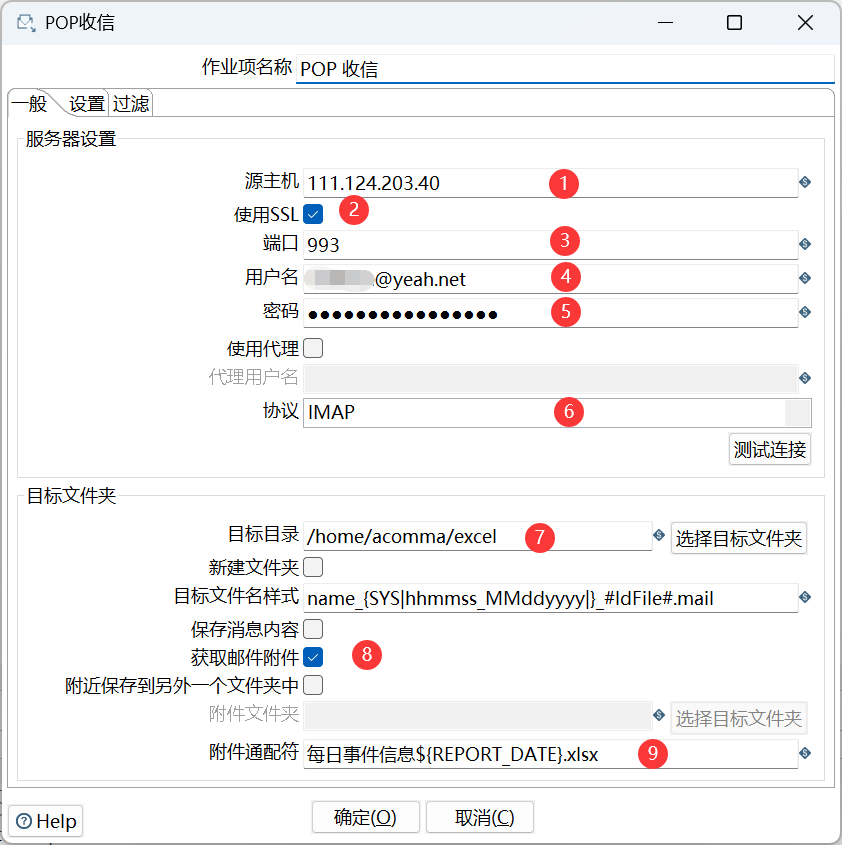
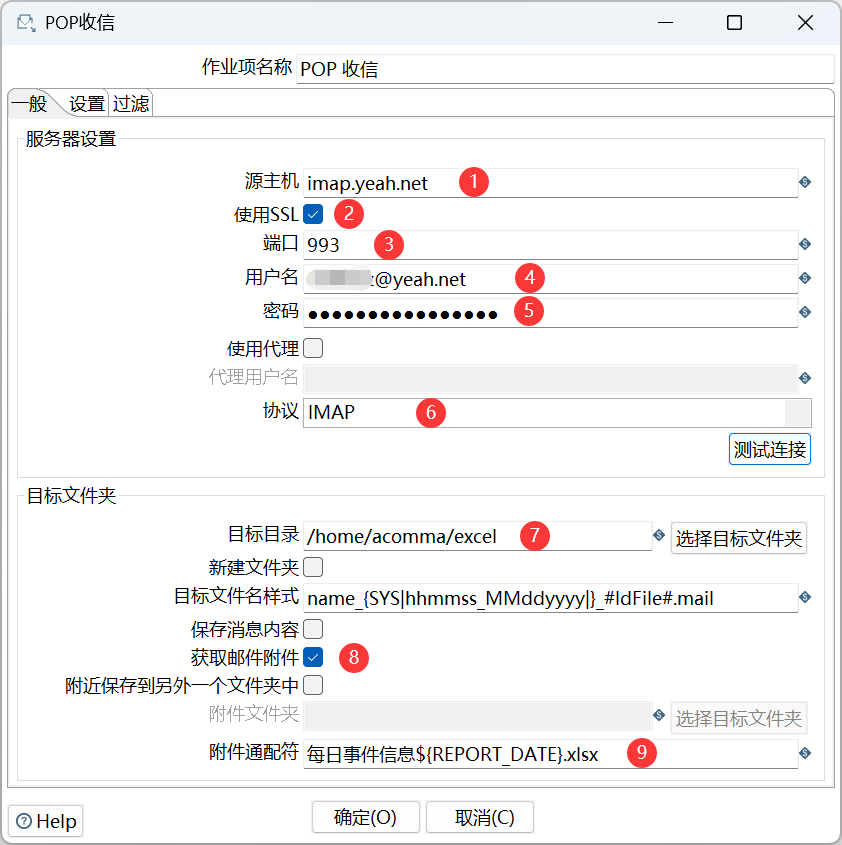
update

diff --git a/source/_posts/2025/2025-04-19-get-mail-from-pop-and-import-data-to-database-use-pdi.md b/source/_posts/2025/2025-04-19-get-mail-from-pop-and-import-data-to-database-use-pdi.md
@@ -322,7 +322,7 @@ create table event
 
 ### POP 收信
 
-从前面我们知道 *yeah.net* 邮箱的 IMAP 地址是 *imap.yeah.net*，但是我的虚拟电脑暂时无法解析域名，所以*源主机*填写的是 IP 地址；*密码*是先前生成的授权码；*附件通配符*填写的是*每日事件信息${REPORT_DATE}.xlsx*，其中 `${REPORT_DATE}` 作为变量会被替换
+*源主机*填写的是 *yeah.net* 邮箱的 IMAP 地址是 *imap.yeah.net*；*密码*是先前生成的授权码；*附件通配符*填写的是*每日事件信息${REPORT_DATE}.xlsx*，其中 `${REPORT_DATE}` 作为变量会被替换
 
 {% asset_img job-5.png %}
 
